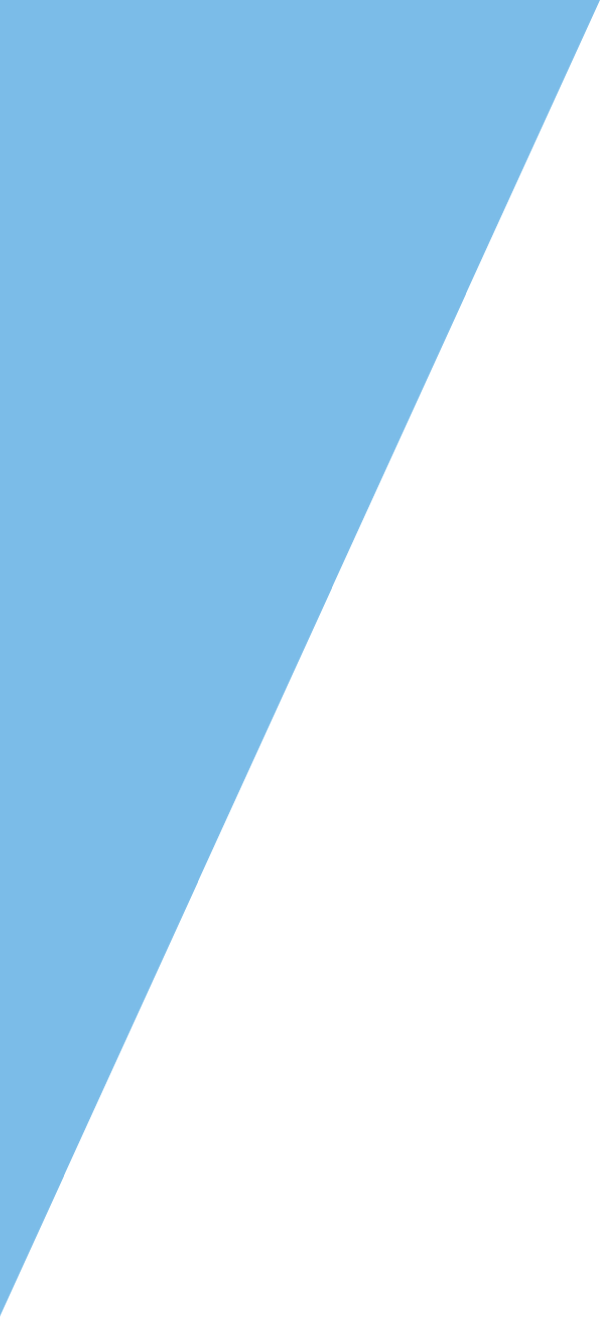
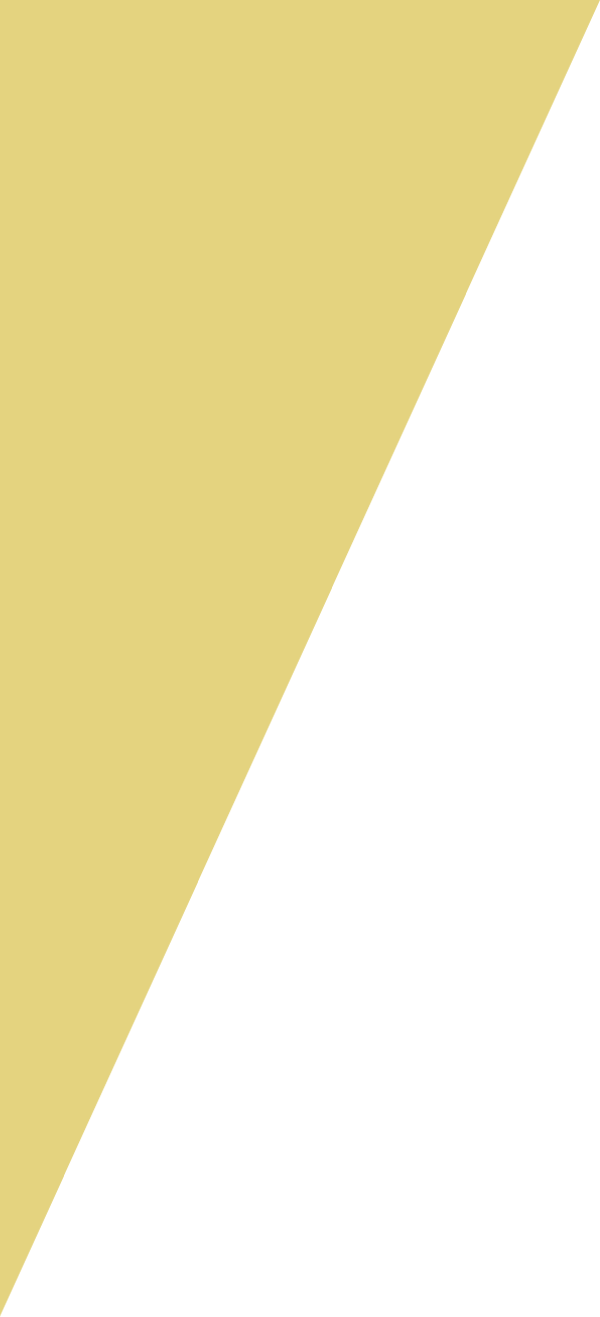
change bgd

diff --git a/app/assets/app-week/stylesheets/app.less b/app/assets/app-week/stylesheets/app.less
@@ -83,41 +83,41 @@
       }
     }
     &.col-3 {
-      background-color: #82bfe9;
+      background-color: #e5d586;
       background-image: url('@{img-path}bgd-week-3.png');
       .heading {
-        background-color: #3498db;
+        background-color: #d5bc3a;
         &:before {
           background-image: url('@{img-path}arrow-week-3.png');
         }
         span {
-          color: #0b4063;
+          color: #9a742b;
         }
       }
     }
     &.col-4 {
-      background-color: #77a6c5;
+      background-color: #ebe2ab;
       background-image: url('@{img-path}bgd-week-4.png');
       .heading {
-        background-color: #246fa2;
+        background-color: #dfcf78;
         &:before {
           background-image: url('@{img-path}arrow-week-4.png');
         }
         span {
-          color: #041e2f;
+          color: #aa7d28;
         }
       }
     }
     &.col-5 {
-      background-color: #7bb0d3;
+      background-color: #e5d586;
       background-image: url('@{img-path}bgd-week-5.png');
       .heading {
-        background-color: #2980b9;
+        background-color: #d5bc3a;
         &:before {
           background-image: url('@{img-path}arrow-week-5.png');
         }
         span {
-          color: #6eb8e8;
+          color: #b08837;
         }
       }
     }
